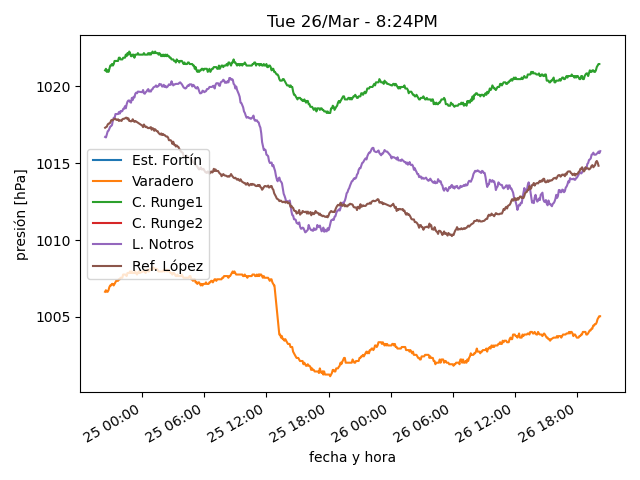
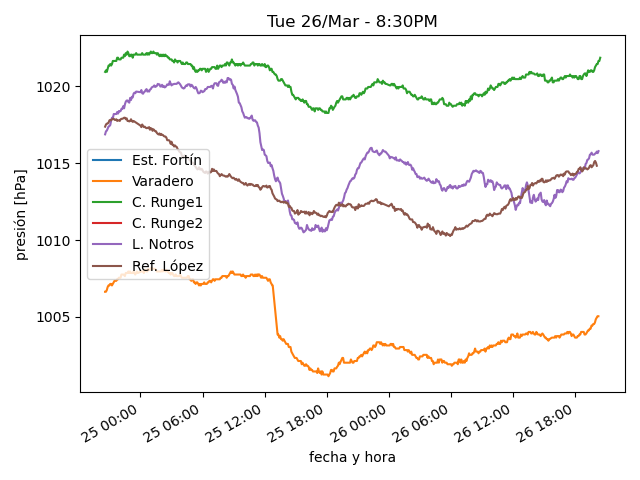
actualiza datos

diff --git a/estaciones/estacion3.html b/estaciones/estacion3.html
@@ -18,32 +18,32 @@
     </tr>
     <tr>
      <td class="stats_data">
-      8:09PM
+      8:24PM
      </td>
     </tr>
     <tr>
      <td class="stats_data">
-      14.5
+      14.2
      </td>
     </tr>
     <tr>
      <td class="stats_data">
-      9.3
+      9.0
      </td>
     </tr>
     <tr>
      <td class="stats_data">
-      71.0
+      71.2
      </td>
     </tr>
     <tr>
      <td class="stats_data">
-      1009.72
+      1010.13
      </td>
     </tr>
     <tr>
      <td class="stats_data">
-      8.3/11.6 NW
+      6.3/8.8 W
      </td>
     </tr>
     <tr>
